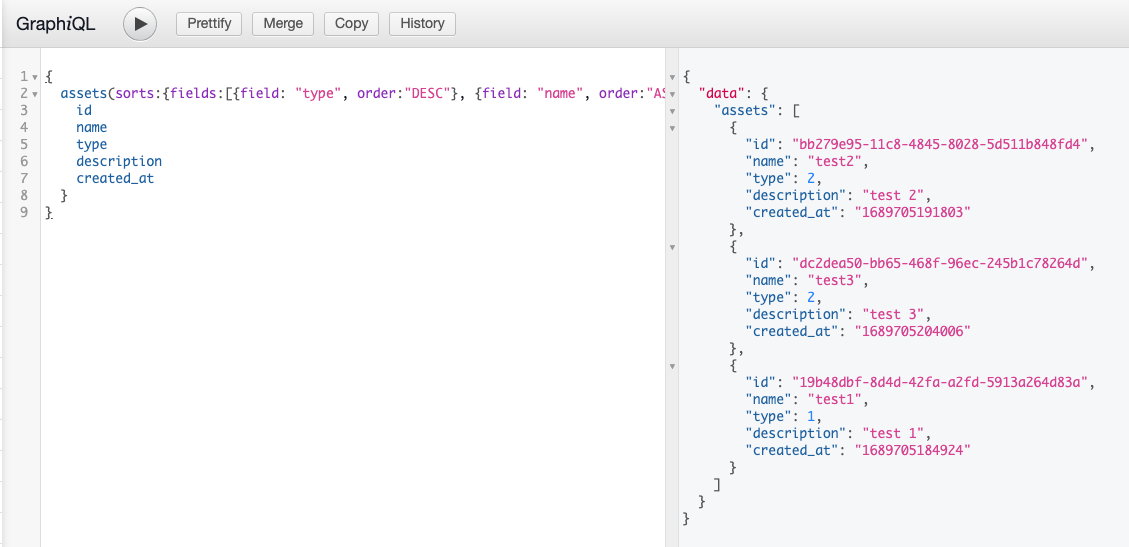
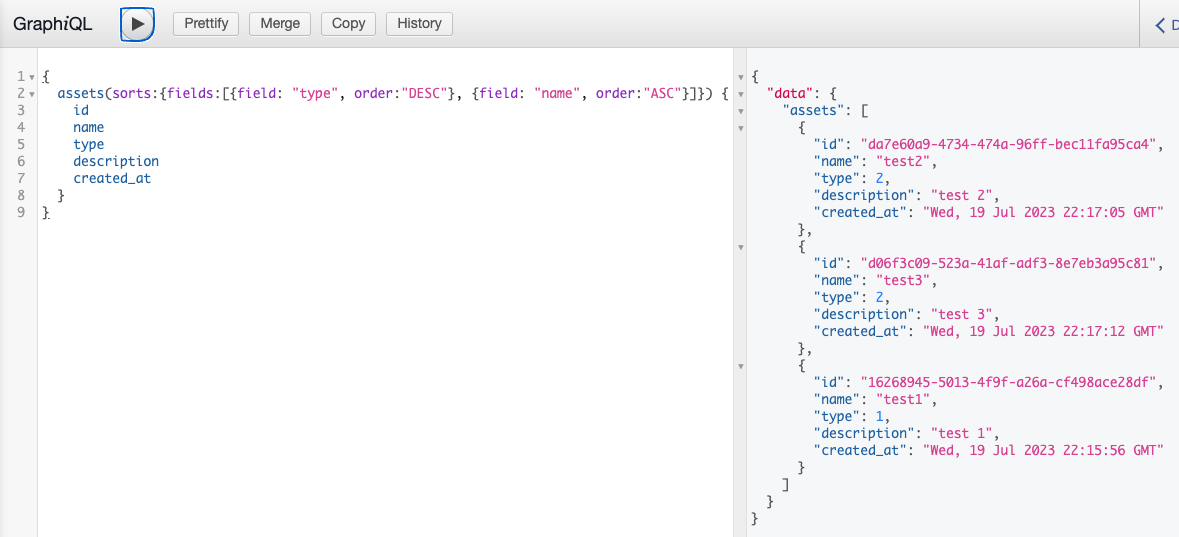
refactor: Refactor files structure

diff --git a/src/controllers/asset_controller.js b/src/controllers/asset_controller.js
@@ -1,11 +1,8 @@
-const express = require('express')
-const expressGraphQL = require('express-graphql').graphqlHTTP
-const { SortOption, DIRECTION } = require('./helpers/sort_option')
-const { Asset } = require('./entities/asset')
-const { AssetService } = require('./services/asset_service')
+const { SortOption, DIRECTION } = require('../helpers/sort_option')
+const { Asset } = require('../entities/asset')
+const { AssetService } = require('../services/asset_service')
 
 const {
-  GraphQLSchema,
   GraphQLObjectType,
   GraphQLInputObjectType,
   GraphQLList,
@@ -13,12 +10,11 @@ const {
   GraphQLString,
   GraphQLInt,
 } = require('graphql')
-const app = express()
 
 const DESC = 'DESC'
+const SUPPORTFIELDS = ['id', 'name', 'type', 'description', 'created_at']
 
 const assetService = new AssetService()
-const assets = []
 
 const SortingParamType = new GraphQLInputObjectType({
   name: 'SortParm',
@@ -49,14 +45,27 @@ const AssetType = new GraphQLObjectType({
   }),
 })
 
-const isValidField = (name) => {
-  return ['id', 'name', 'type', 'description', 'created_at'].includes(name)
+function isValidField(name) {
+  return SUPPORTFIELDS.includes(name)
 }
 
-const RootQueryType = new GraphQLObjectType({
-  name: 'Query',
-  description: 'Root Query',
-  fields: () => ({
+function getAllAssets(sortFields) {
+  if (!sortFields || (sortFields?.length ?? 0) === 0) {
+    return assetService.allAssets()
+  }
+
+  const sortOption = new SortOption()
+  for (let sort of sortFields) {
+    if (!isValidField(sort.field)) continue
+    const order =
+      sort.order === DESC ? DIRECTION.DESCENDING : DIRECTION.ASCENDING
+    sortOption.addField(sort.field, order)
+  }
+  return assetService.allAssets(sortOption)
+}
+
+const queryList = [
+  {
     assets: {
       type: GraphQLList(AssetType),
       description: 'List Of All Assets',
@@ -64,22 +73,12 @@ const RootQueryType = new GraphQLObjectType({
         sorts: { type: SortingParamsType },
       },
       resolve: (_, args) => {
-        const sortFields = args.sorts?.fields ?? []
-
-        if (sortFields.length === 0) {
-          return assetService.allAssets()
-        }
-
-        const sortOption = new SortOption()
-        for (let sort of sortFields) {
-          if (!isValidField) continue
-          const order =
-            sort.order === DESC ? DIRECTION.DESCENDING : DIRECTION.ASCENDING
-          sortOption.addField(sort.field, order)
-        }
-        return assetService.allAssets(sortOption)
+        const sortFields = args.sorts?.fields ?? null
+        return getAllAssets(sortFields)
       },
     },
+  },
+  {
     asset: {
       type: AssetType,
       description: 'A Signle Asset',
@@ -88,13 +87,11 @@ const RootQueryType = new GraphQLObjectType({
       },
       resolve: (_, args) => assetService.getAsset(args.id),
     },
-  }),
-})
+  },
+]
 
-const RootMutationType = new GraphQLObjectType({
-  name: 'Mutation',
-  description: 'Root Mutation',
-  fields: () => ({
+const mutationList = [
+  {
     addAsset: {
       type: AssetType,
       description: 'Add An Asset',
@@ -107,6 +104,8 @@ const RootMutationType = new GraphQLObjectType({
         return assetService.createAsset(args.name, args.type, args.description)
       },
     },
+  },
+  {
     changeAsset: {
       type: AssetType,
       description: 'Update An Asset',
@@ -127,6 +126,8 @@ const RootMutationType = new GraphQLObjectType({
         return assetService.updateAsset(args.id, updateAsset)
       },
     },
+  },
+  {
     deleteAsset: {
       type: AssetType,
       description: 'Delete An Asset And Return The Asset That Was Deleted.',
@@ -137,19 +138,8 @@ const RootMutationType = new GraphQLObjectType({
         return assetService.deleteAsset(args.id)
       },
     },
-  }),
-})
+  },
+]
 
-const schema = new GraphQLSchema({
-  query: RootQueryType,
-  mutation: RootMutationType,
-})
-
-app.use(
-  '/graphql',
-  expressGraphQL({
-    schema: schema,
-    graphiql: true,
-  })
-)
-app.listen(4000, () => console.log('Gateway Server Running'))
+module.exports.queryList = queryList
+module.exports.mutationList = mutationList

diff --git a/src/server.js b/src/server.js
@@ -1,0 +1,54 @@
+const express = require('express')
+const expressGraphQL = require('express-graphql').graphqlHTTP
+const {
+  queryList: assetQueryList,
+  mutationList: assetMutationList,
+} = require('./controllers/asset_controller')
+
+const { GraphQLSchema, GraphQLObjectType } = require('graphql')
+const app = express()
+
+function buildFieldsMethod(fields, methodlist) {
+  for (let method of methodlist) {
+    const name = Object.getOwnPropertyNames(method)[0]
+    fields[name] = method[name]
+  }
+}
+
+const queryFields = () => {
+  const fields = {}
+  buildFieldsMethod(fields, assetQueryList)
+  return fields
+}
+
+const mutationFields = () => {
+  const fields = {}
+  buildFieldsMethod(fields, assetMutationList)
+  return fields
+}
+
+const RootQueryType = new GraphQLObjectType({
+  name: 'Query',
+  description: 'Root Query',
+  fields: () => queryFields(),
+})
+
+const RootMutationType = new GraphQLObjectType({
+  name: 'Mutation',
+  description: 'Root Mutation',
+  fields: () => mutationFields(),
+})
+
+const schema = new GraphQLSchema({
+  query: RootQueryType,
+  mutation: RootMutationType,
+})
+
+app.use(
+  '/graphql',
+  expressGraphQL({
+    schema: schema,
+    graphiql: true,
+  })
+)
+app.listen(4000, () => console.log('Gateway Server Running'))

diff --git a/src/services/asset_service.js b/src/services/asset_service.js
@@ -28,7 +28,9 @@ class AssetService {
 
   createAsset(name, type, description) {
     const id = uuidv4()
-    this.cache.push(new Asset(id, name, type, description, new Date()))
+    this.cache.push(
+      new Asset(id, name, type, description, new Date().toUTCString())
+    )
     return this.cache[this.cache.length - 1]
   }
 

diff --git a/README.md b/README.md
@@ -69,7 +69,7 @@ $ docker start gateway
 
 ```
 {
-  asset(id:"3a084194-bb41-4f60-8452-dc6c1035b353") {
+  asset(id:"da7e60a9-4734-474a-96ff-bec11fa95ca4") {
     id
     name
     type
@@ -86,7 +86,7 @@ $ docker start gateway
 
 ```
 mutation {
-  addAsset(name: "ad1", type: 3, description: "test desc") {
+  addAsset(name: "test1", type: 1, description: "test 1") {
     id
     name
     type
@@ -102,7 +102,7 @@ mutation {
 
 ```
 mutation {
-  changeAsset(id: "3a084194-bb41-4f60-8452-dc6c1035b353", name: "C Name", type: 2, description: "Change Desc") {
+  changeAsset(id: "da7e60a9-4734-474a-96ff-bec11fa95ca4", name: "Change A2", type: 2, description: "Change Desc 2") {
     id
     name
     type
@@ -118,7 +118,7 @@ mutation {
 
 ```
 mutation {
-  deleteAsset(id: "3a084194-bb41-4f60-8452-dc6c1035b353") {
+  deleteAsset(id: "da7e60a9-4734-474a-96ff-bec11fa95ca4") {
     id
   }
 }
@@ -141,19 +141,3 @@ mutation {
 ```
 
 ![Delete Output](https://raw.githubusercontent.com/leocwlam/leolam-gateway-demo/master/docs/sorted.png)
-
-## <a name="Without-sorted-assets"></a>Without sort assets
-
-```
-{
-  assets {
-    id
-    name
-    type
-    description
-    created_at
-  }
-}
-```
-
-![Delete Output](https://raw.githubusercontent.com/leocwlam/leolam-gateway-demo/master/docs/no_sort.png)
